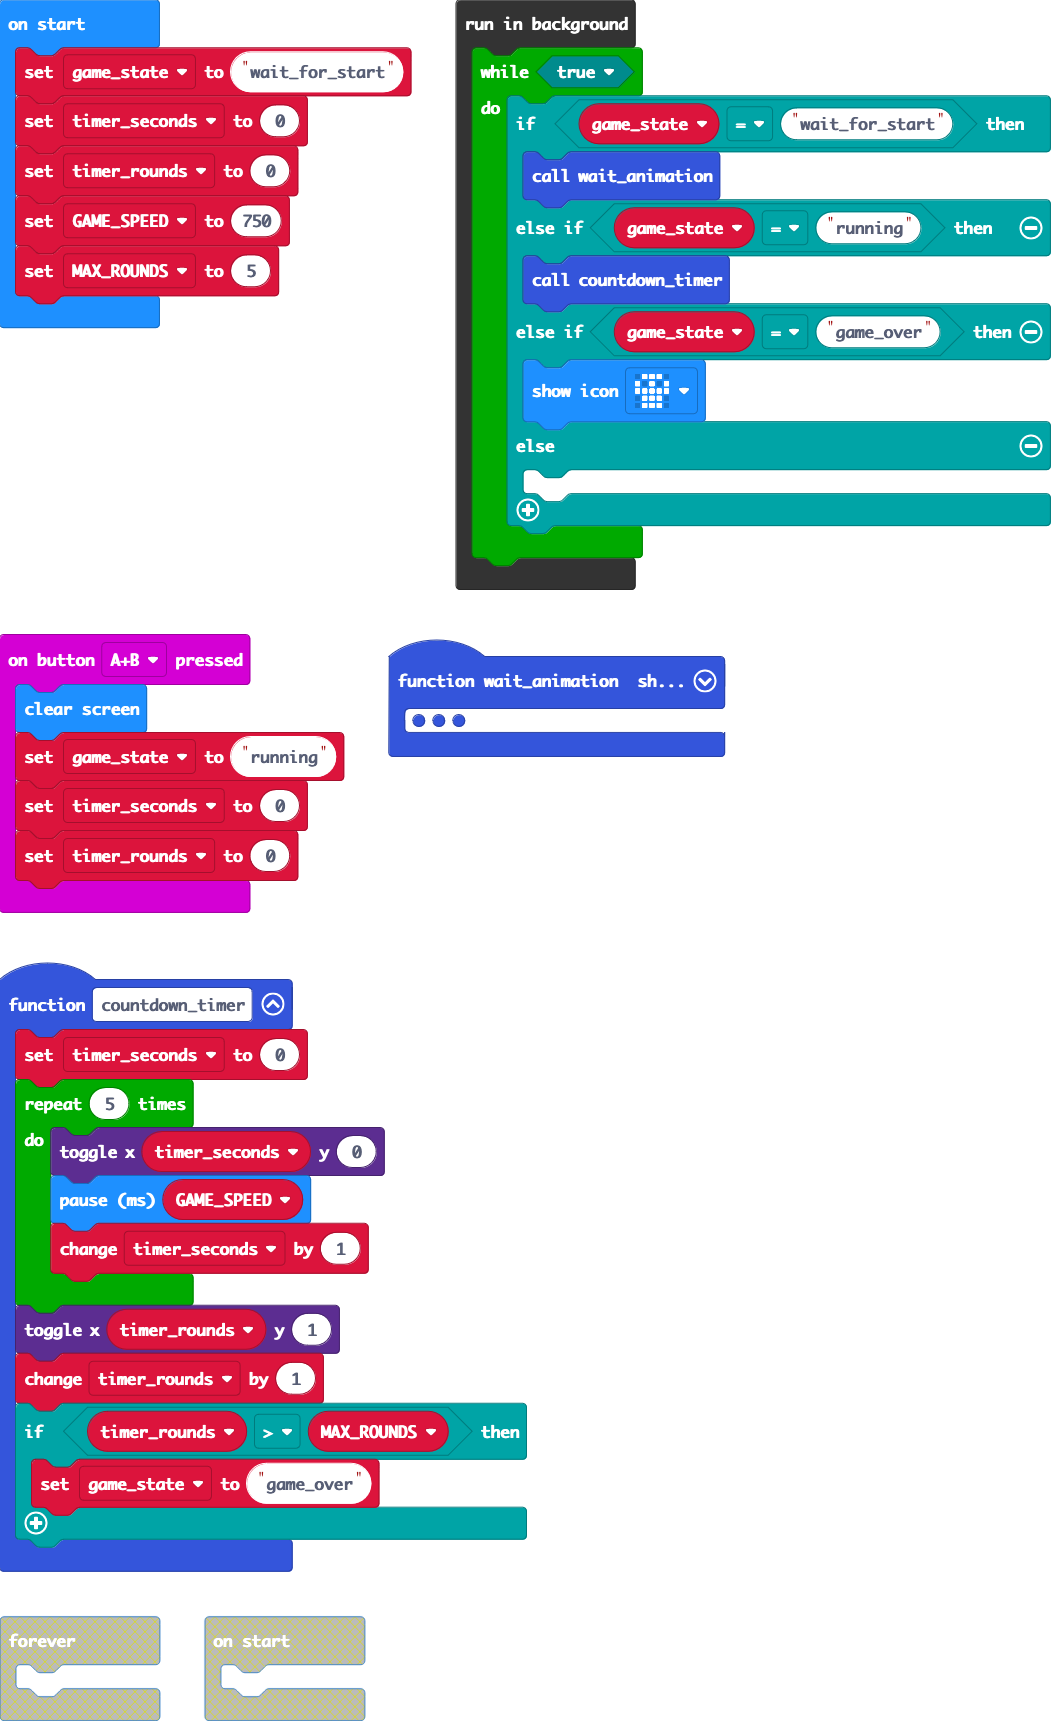
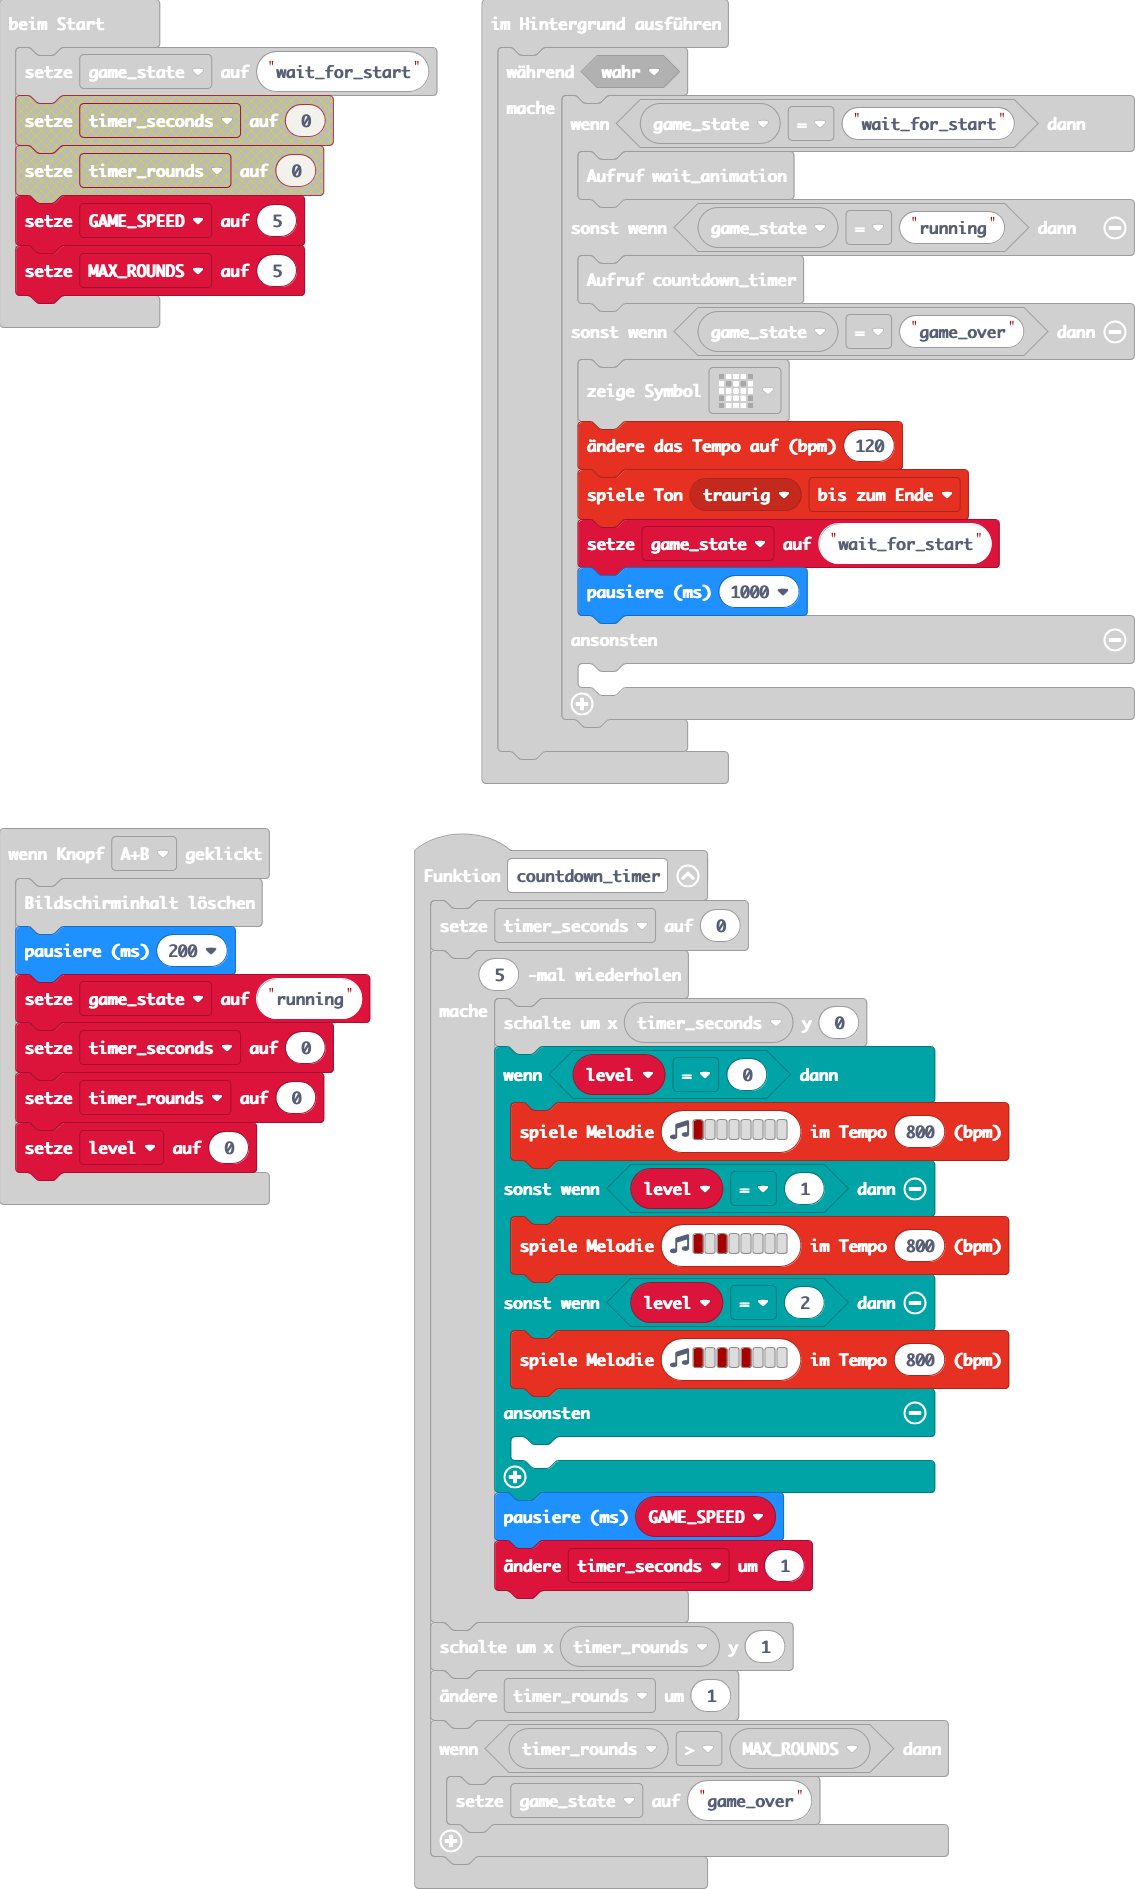
add audio

diff --git a/main.ts b/main.ts
@@ -1,8 +1,10 @@
 input.onButtonPressed(Button.AB, function () {
     basic.clearScreen()
+    basic.pause(200)
     game_state = "running"
     timer_seconds = 0
     timer_rounds = 0
+    level = 0
 })
 function wait_animation () {
     basic.showLeds(`
@@ -26,6 +28,15 @@ function countdown_timer () {
     timer_seconds = 0
     for (let index = 0; index < 5; index++) {
         led.toggle(timer_seconds, 0)
+        if (level == 0) {
+            music.playMelody("C5 - - - - - - - ", 800)
+        } else if (level == 1) {
+            music.playMelody("C5 - C5 - - - - - ", 800)
+        } else if (level == 2) {
+            music.playMelody("C5 - C5 - C5 - - - ", 800)
+        } else {
+        	
+        }
         basic.pause(GAME_SPEED)
         timer_seconds += 1
     }
@@ -35,15 +46,14 @@ function countdown_timer () {
         game_state = "game_over"
     }
 }
-let MAX_ROUNDS = 0
-let GAME_SPEED = 0
+let level = 0
 let timer_rounds = 0
 let timer_seconds = 0
+let MAX_ROUNDS = 0
+let GAME_SPEED = 0
 let game_state = ""
 game_state = "wait_for_start"
-timer_seconds = 0
-timer_rounds = 0
-GAME_SPEED = 750
+GAME_SPEED = 5
 MAX_ROUNDS = 5
 control.inBackground(function () {
     while (true) {
@@ -53,6 +63,10 @@ control.inBackground(function () {
             countdown_timer()
         } else if (game_state == "game_over") {
             basic.showIcon(IconNames.Skull)
+            music.setTempo(120)
+            music.playSoundEffect(music.builtinSoundEffect(soundExpression.sad), SoundExpressionPlayMode.UntilDone)
+            game_state = "wait_for_start"
+            basic.pause(1000)
         } else {
         	
         }
